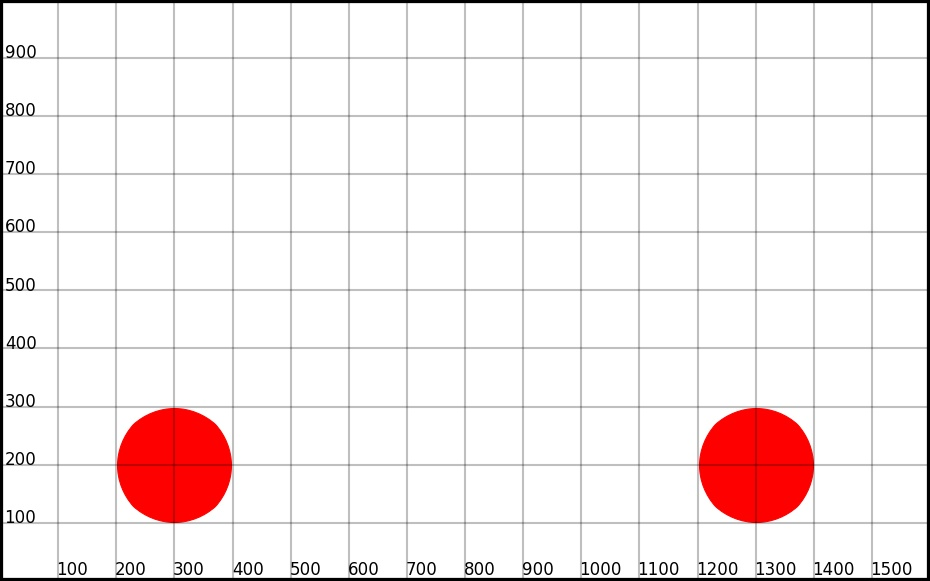
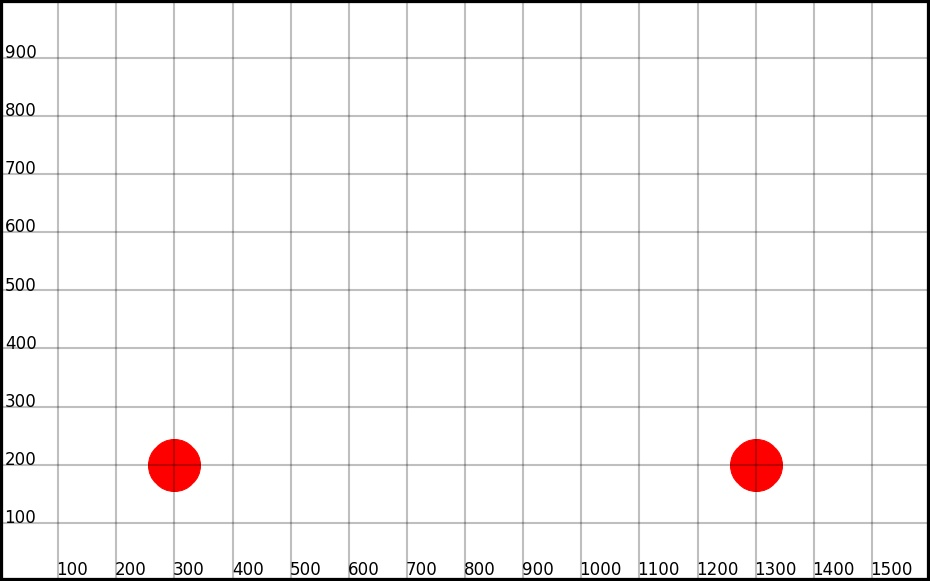
color test output modification

Changed region(s): [[0.1247, 0.6816, 0.2495, 0.8985], [0.7484, 0.6816, 0.8731, 0.8985]]

diff --git a/pixel-to-coordinate/pixel2coord.py b/pixel-to-coordinate/pixel2coord.py
@@ -84,8 +84,11 @@ def process(image):
     proc = cv2.morphologyEx(mask, cv2.MORPH_CLOSE, np.ones((15, 15), np.uint8))
     return proc
 
-def findobjects(image, proc):
+def findobjects(image, proc, **kwargs):
     """Create contours and find locations of objects."""
+    circle = True # default
+    for key in kwargs:
+        if key == 'circle': circle = kwargs[key]
     contours, hierarchy = cv2.findContours(proc, cv2.RETR_EXTERNAL, cv2.CHAIN_APPROX_SIMPLE)
     circled = image.copy()
     object_pixel_locations = np.append(np.array(image.shape[:2][::-1]) / 2, 0)
@@ -94,7 +97,8 @@ def findobjects(image, proc):
         (cx, cy), radius = cv2.minEnclosingCircle(cnt)
         object_pixel_locations = np.vstack((object_pixel_locations, [cx, cy, radius]))
         center = (int(cx), int(cy))
-        cv2.circle(circled, center, int(radius), (255, 0, 0), 4)
+        if circle:
+            cv2.circle(circled, center, int(radius), (255, 0, 0), 4)
         cv2.drawContours(proc, [cnt], 0, (255, 255, 255), 3)
         cv2.drawContours(circled, [cnt], 0, (0, 255, 0), 3)
     return object_pixel_locations, circled
@@ -165,7 +169,7 @@ if __name__ == "__main__":
         test(testimage, coord_scale, rotation_angle)
         # Color range
         testimage = readimage("p2c_test_color.jpg")
-        _, outputimage = findobjects(testimage, process(testimage))
+        _, outputimage = findobjects(testimage, process(testimage), circle=False)
         if viewoutputimage: showimage(outputimage)
 
     else:
